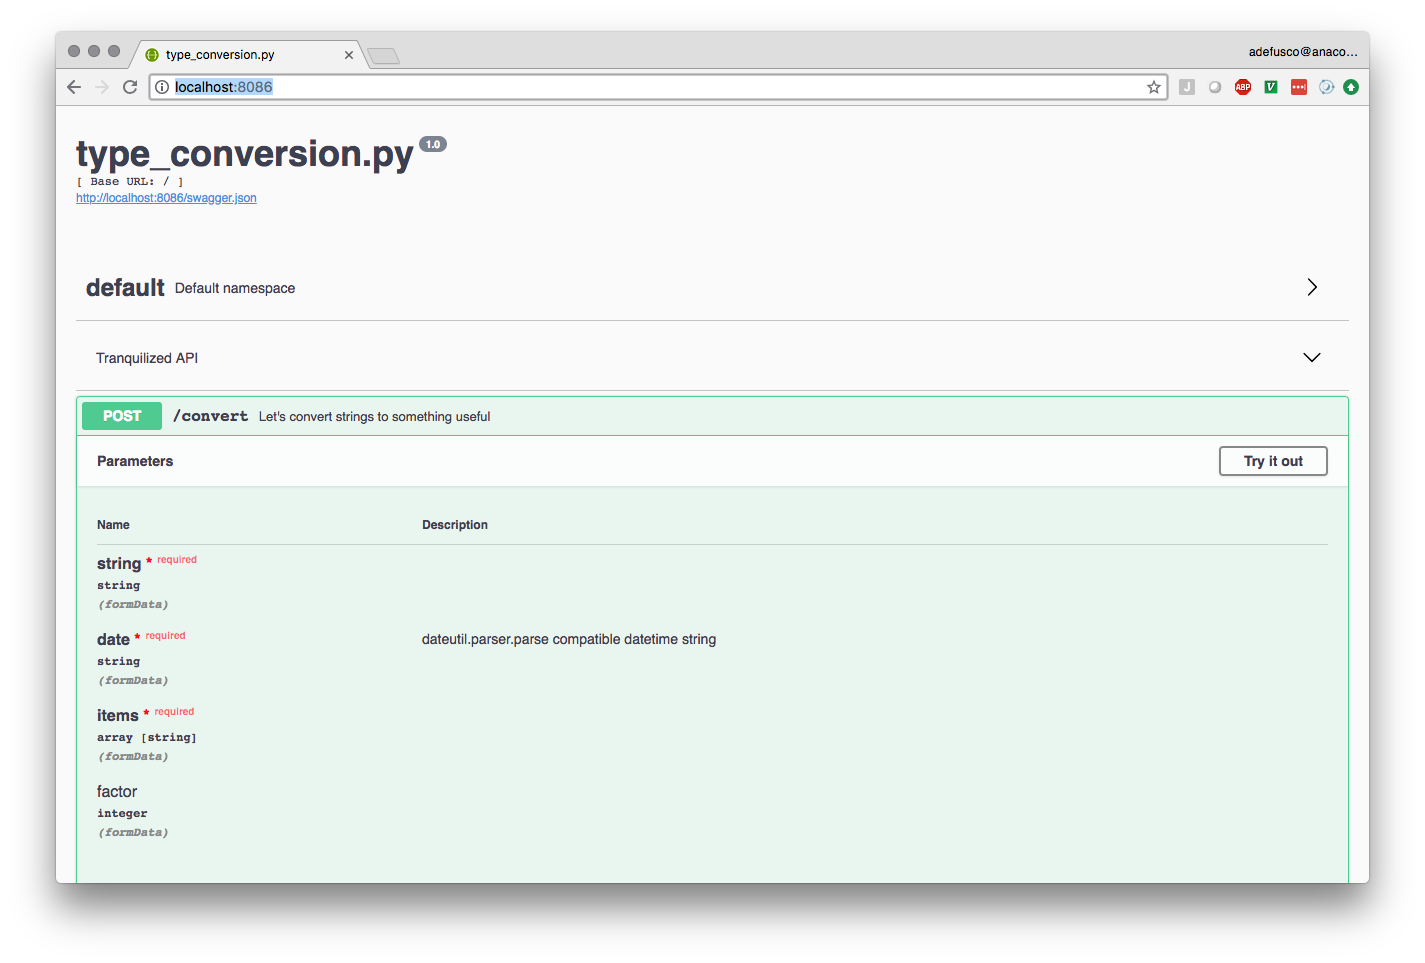
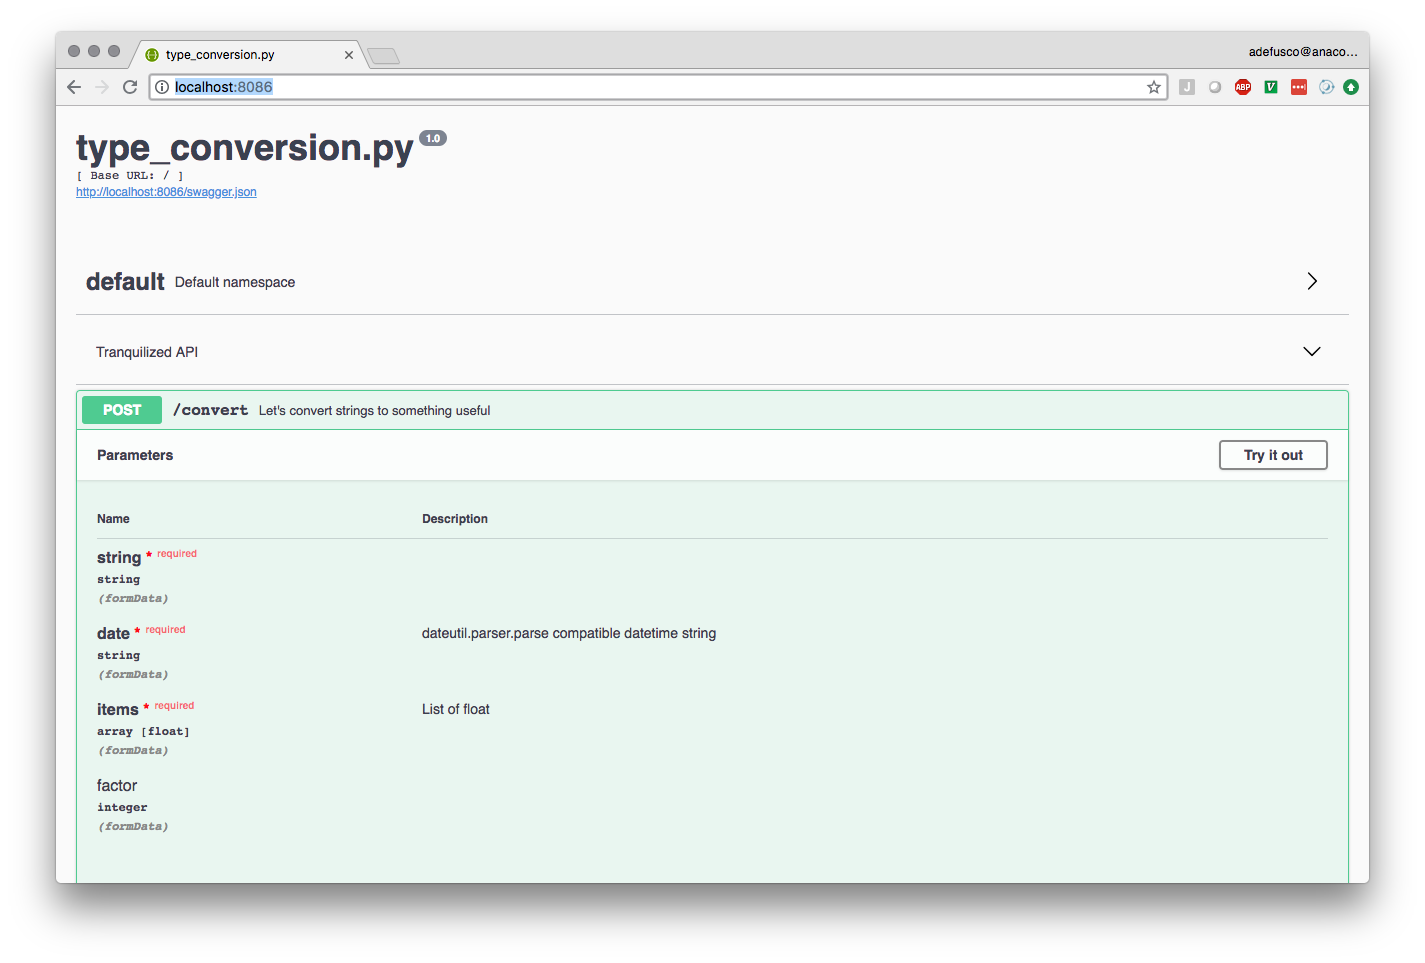
descript for list types

diff --git a/tranquilizer/resource.py b/tranquilizer/resource.py
@@ -14,12 +14,18 @@ def _make_parser(func_spec, location='args'):
     for argument,spec in func_spec['args'].items():
         _type = spec.get('annotation', str)
         _default = spec.get('default', None)
-        action = 'append' if is_container(_type) else 'store'
+        action = 'store'
 
         try:
             description = getattr(_type, '__description__')
         except AttributeError:
             description = None
+
+        if is_container(_type):
+            action = 'append'
+            type_name = _type.__args__[0].__name__
+            _type.__schema__ = {'type':type_name}
+            description = 'List of {}'.format(type_name)
 
         parser.add_argument(argument, type=_type,
                             default=_default,
